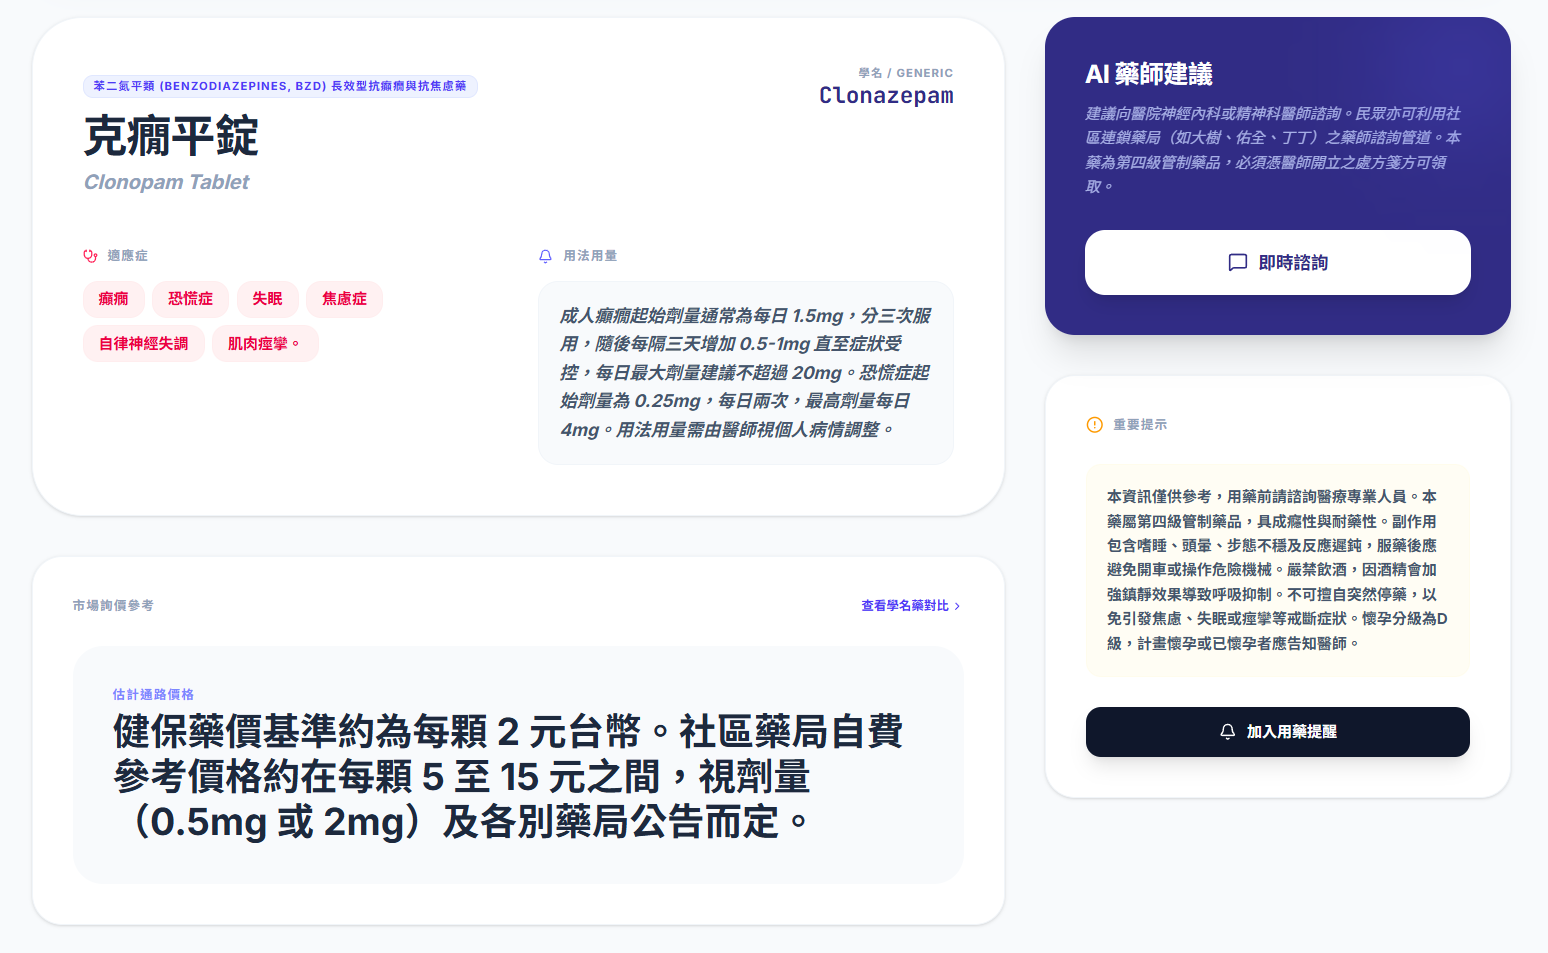
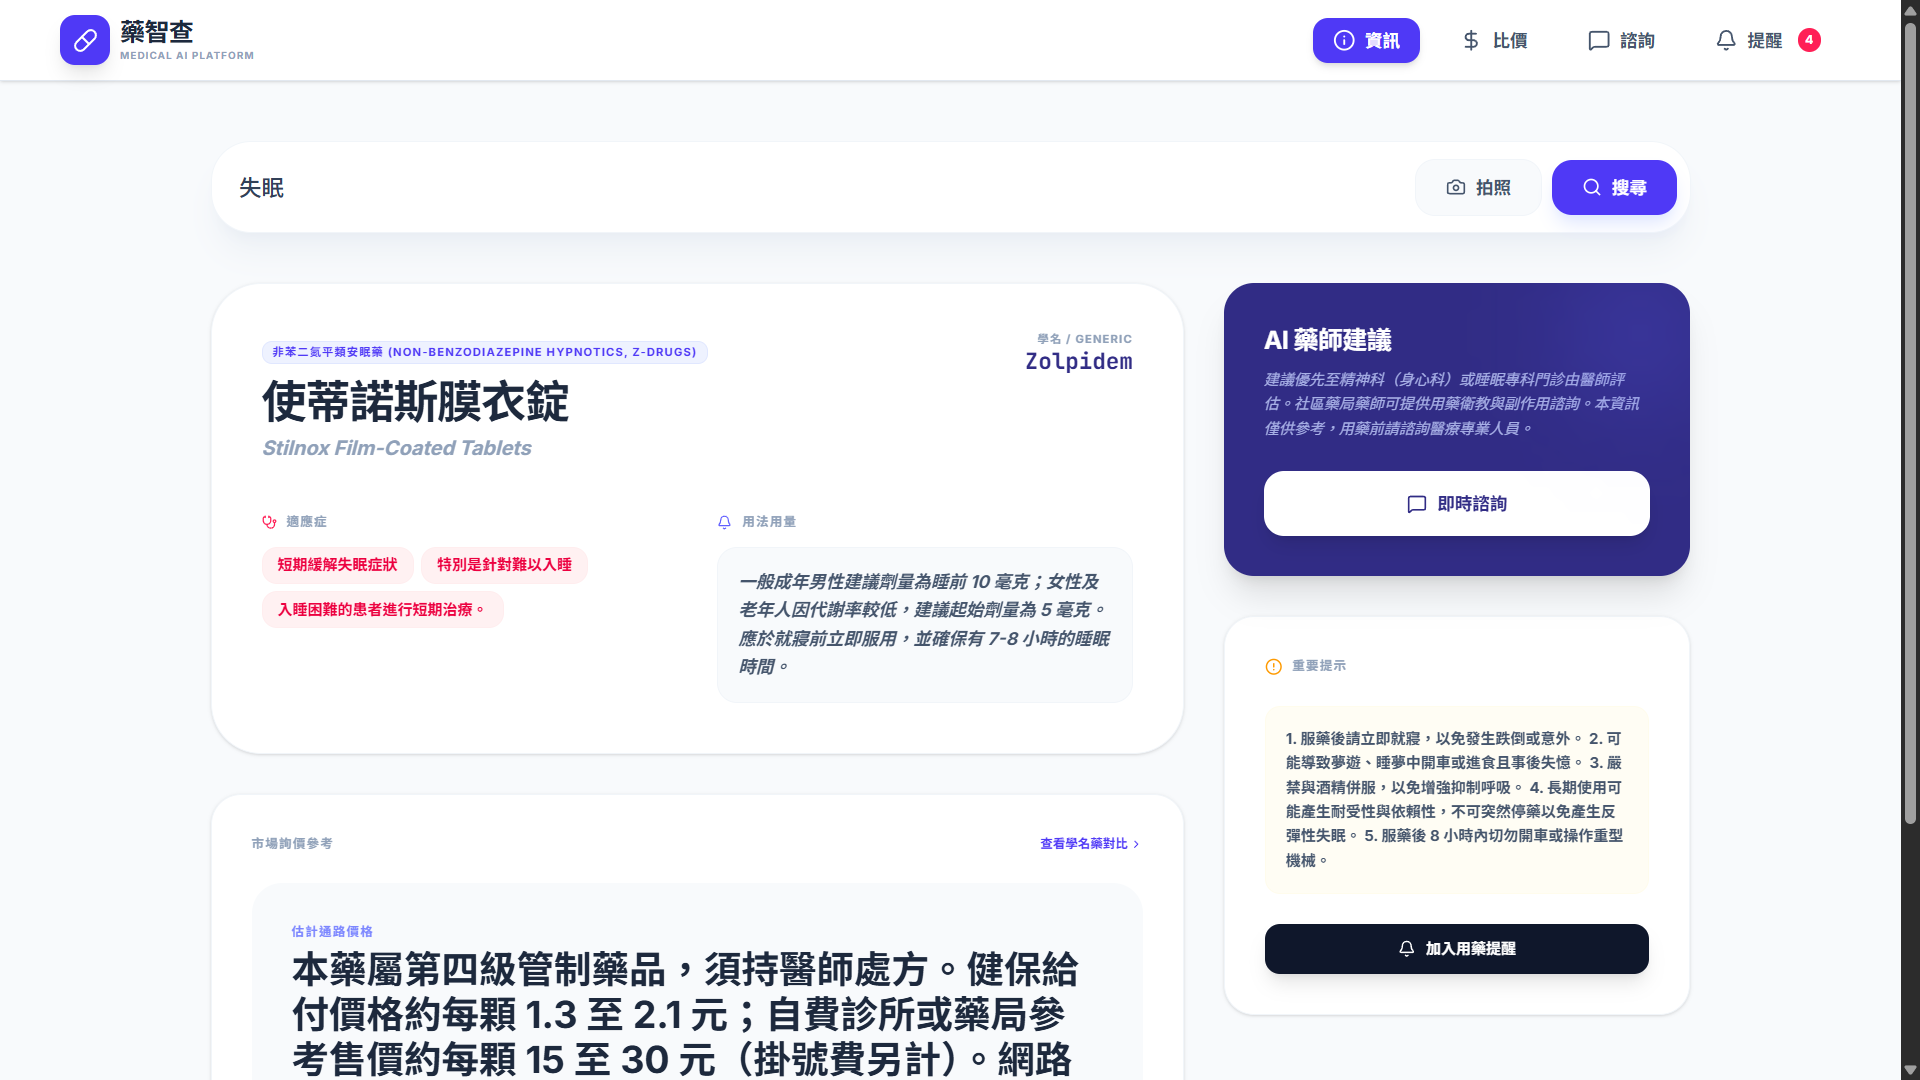
docs: update README and add project screenshot

diff --git a/README.md b/README.md
@@ -10,8 +10,9 @@
 </div>
 
 <div align="center">
-  <img src="docs/screenshot-1.png" alt="MediScan AI Pharmacist" width="45%" />
-  <img src="docs/screenshot-2.png" alt="MediScan AI Interface" width="45%" />
+  <img src="docs/screenshot-1.png" alt="MediScan AI Pharmacist" width="80%" />
+  <br /><br />
+  <img src="docs/screenshot-2.png" alt="MediScan AI Interface" width="80%" />
 </div>
 
 
